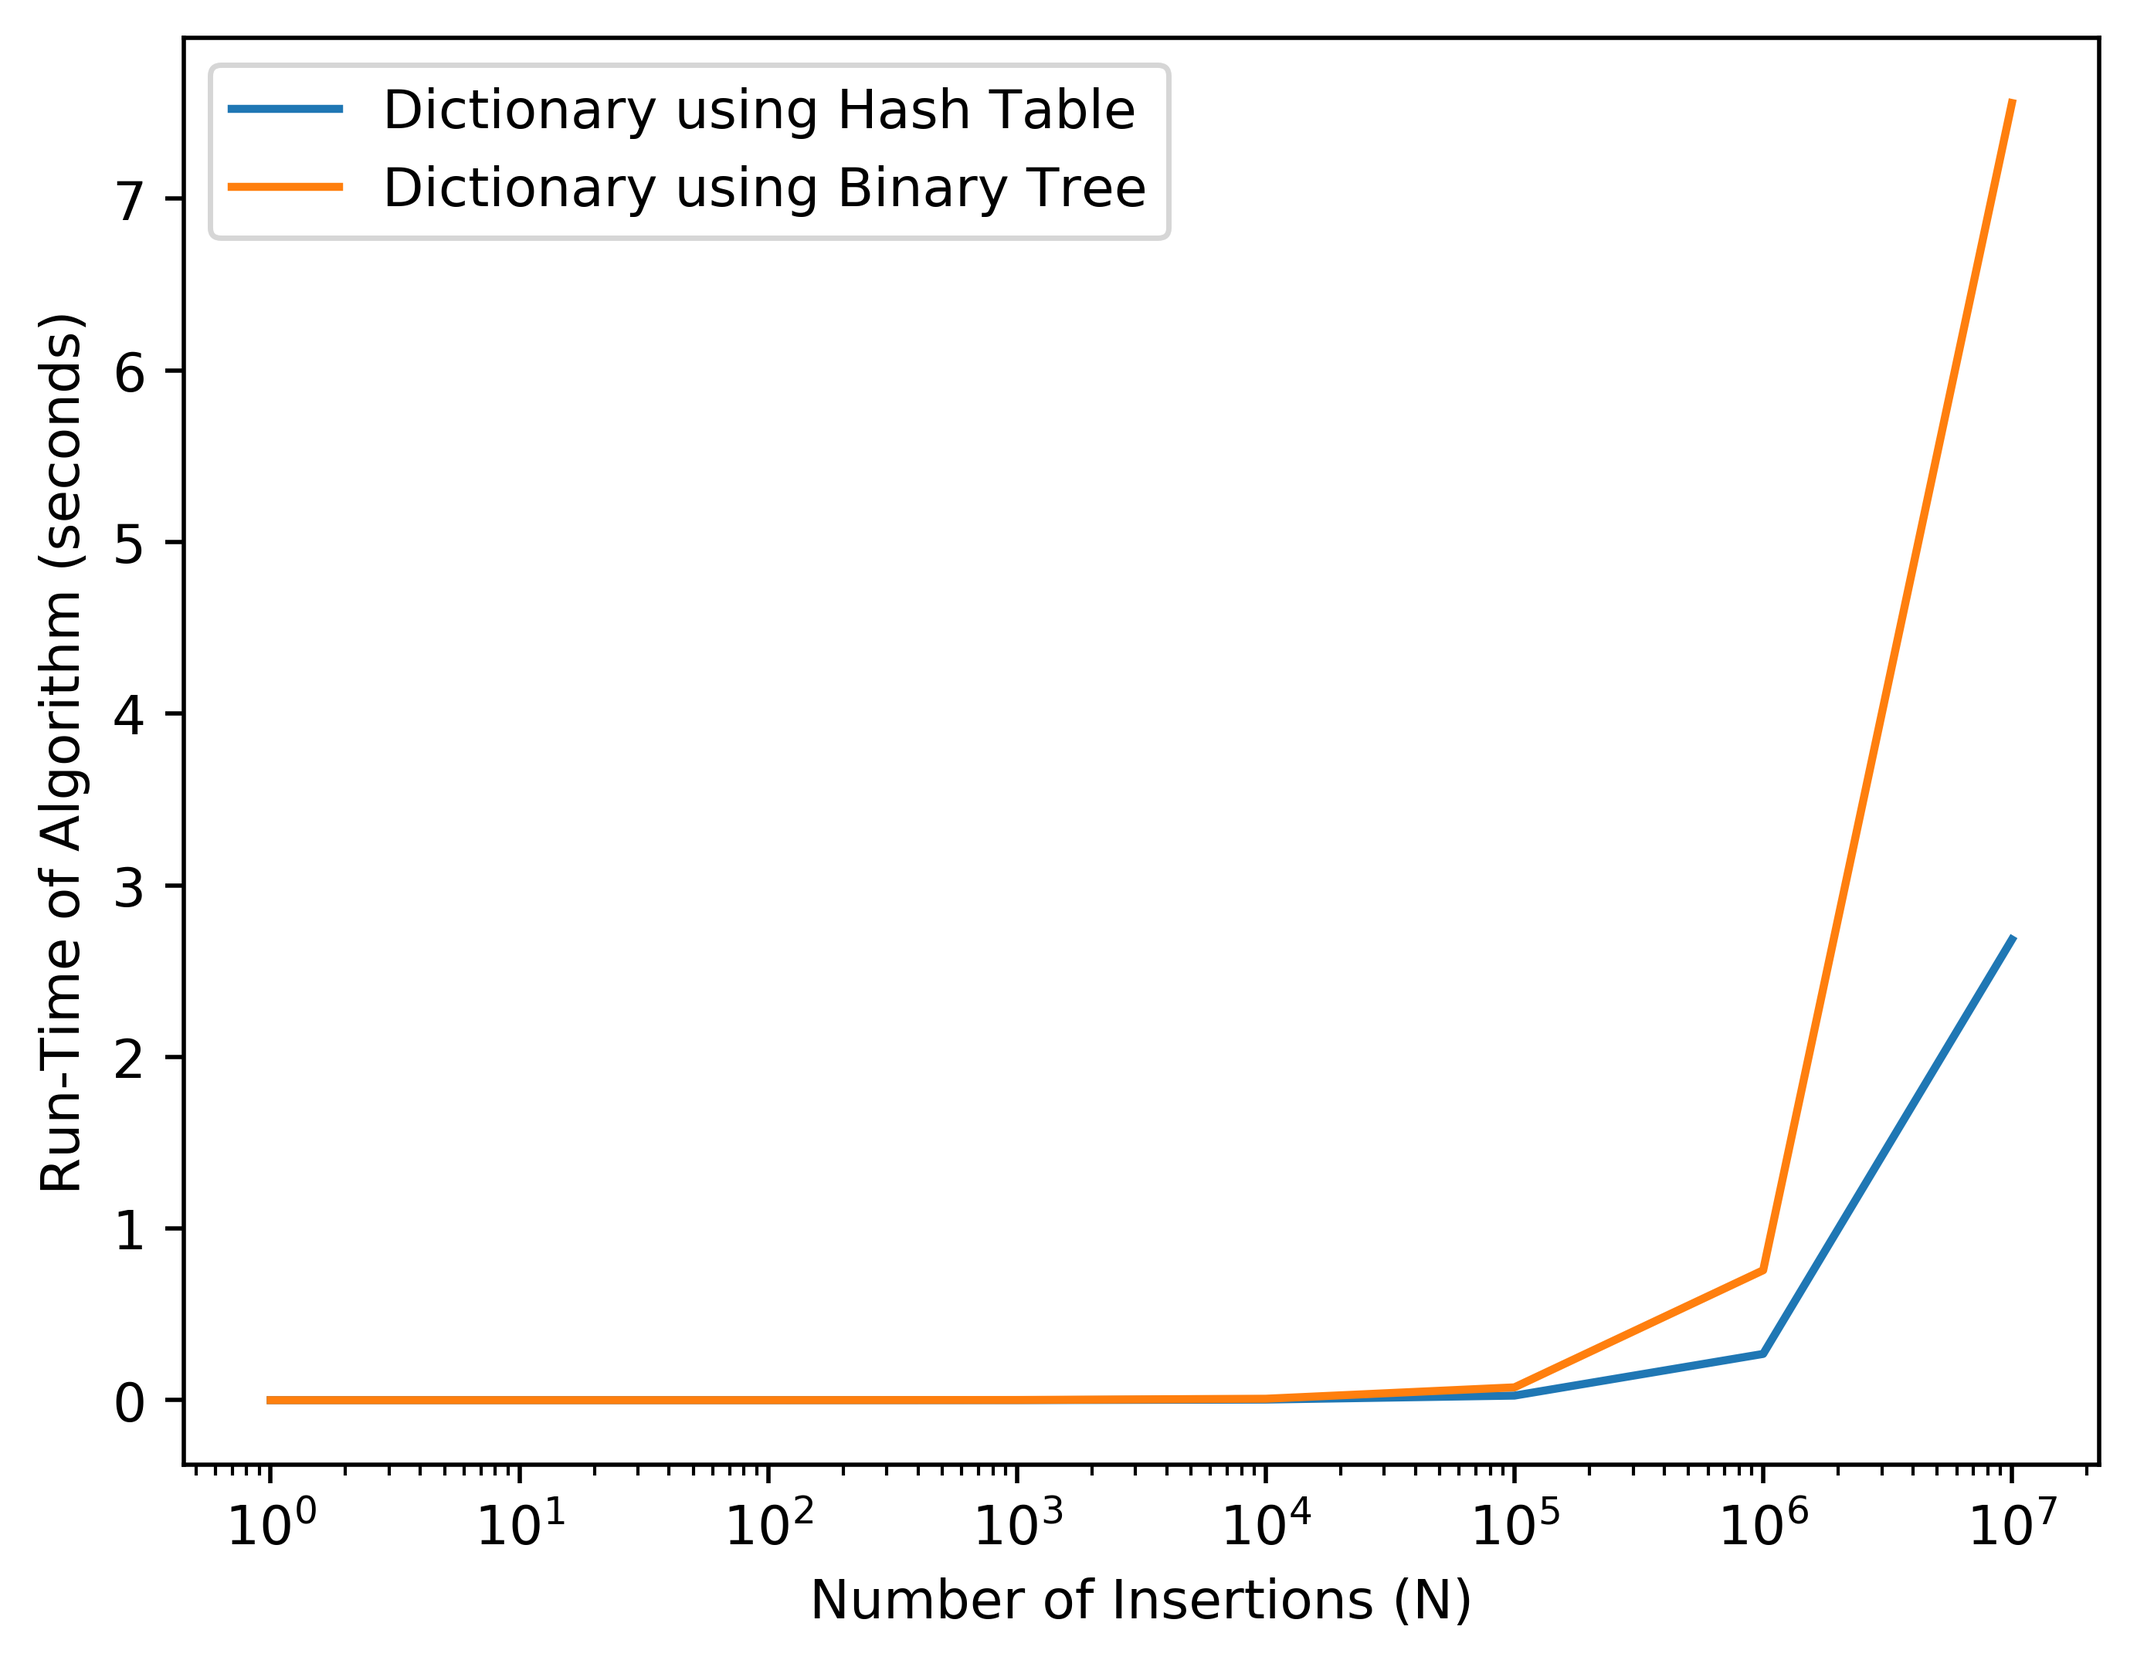
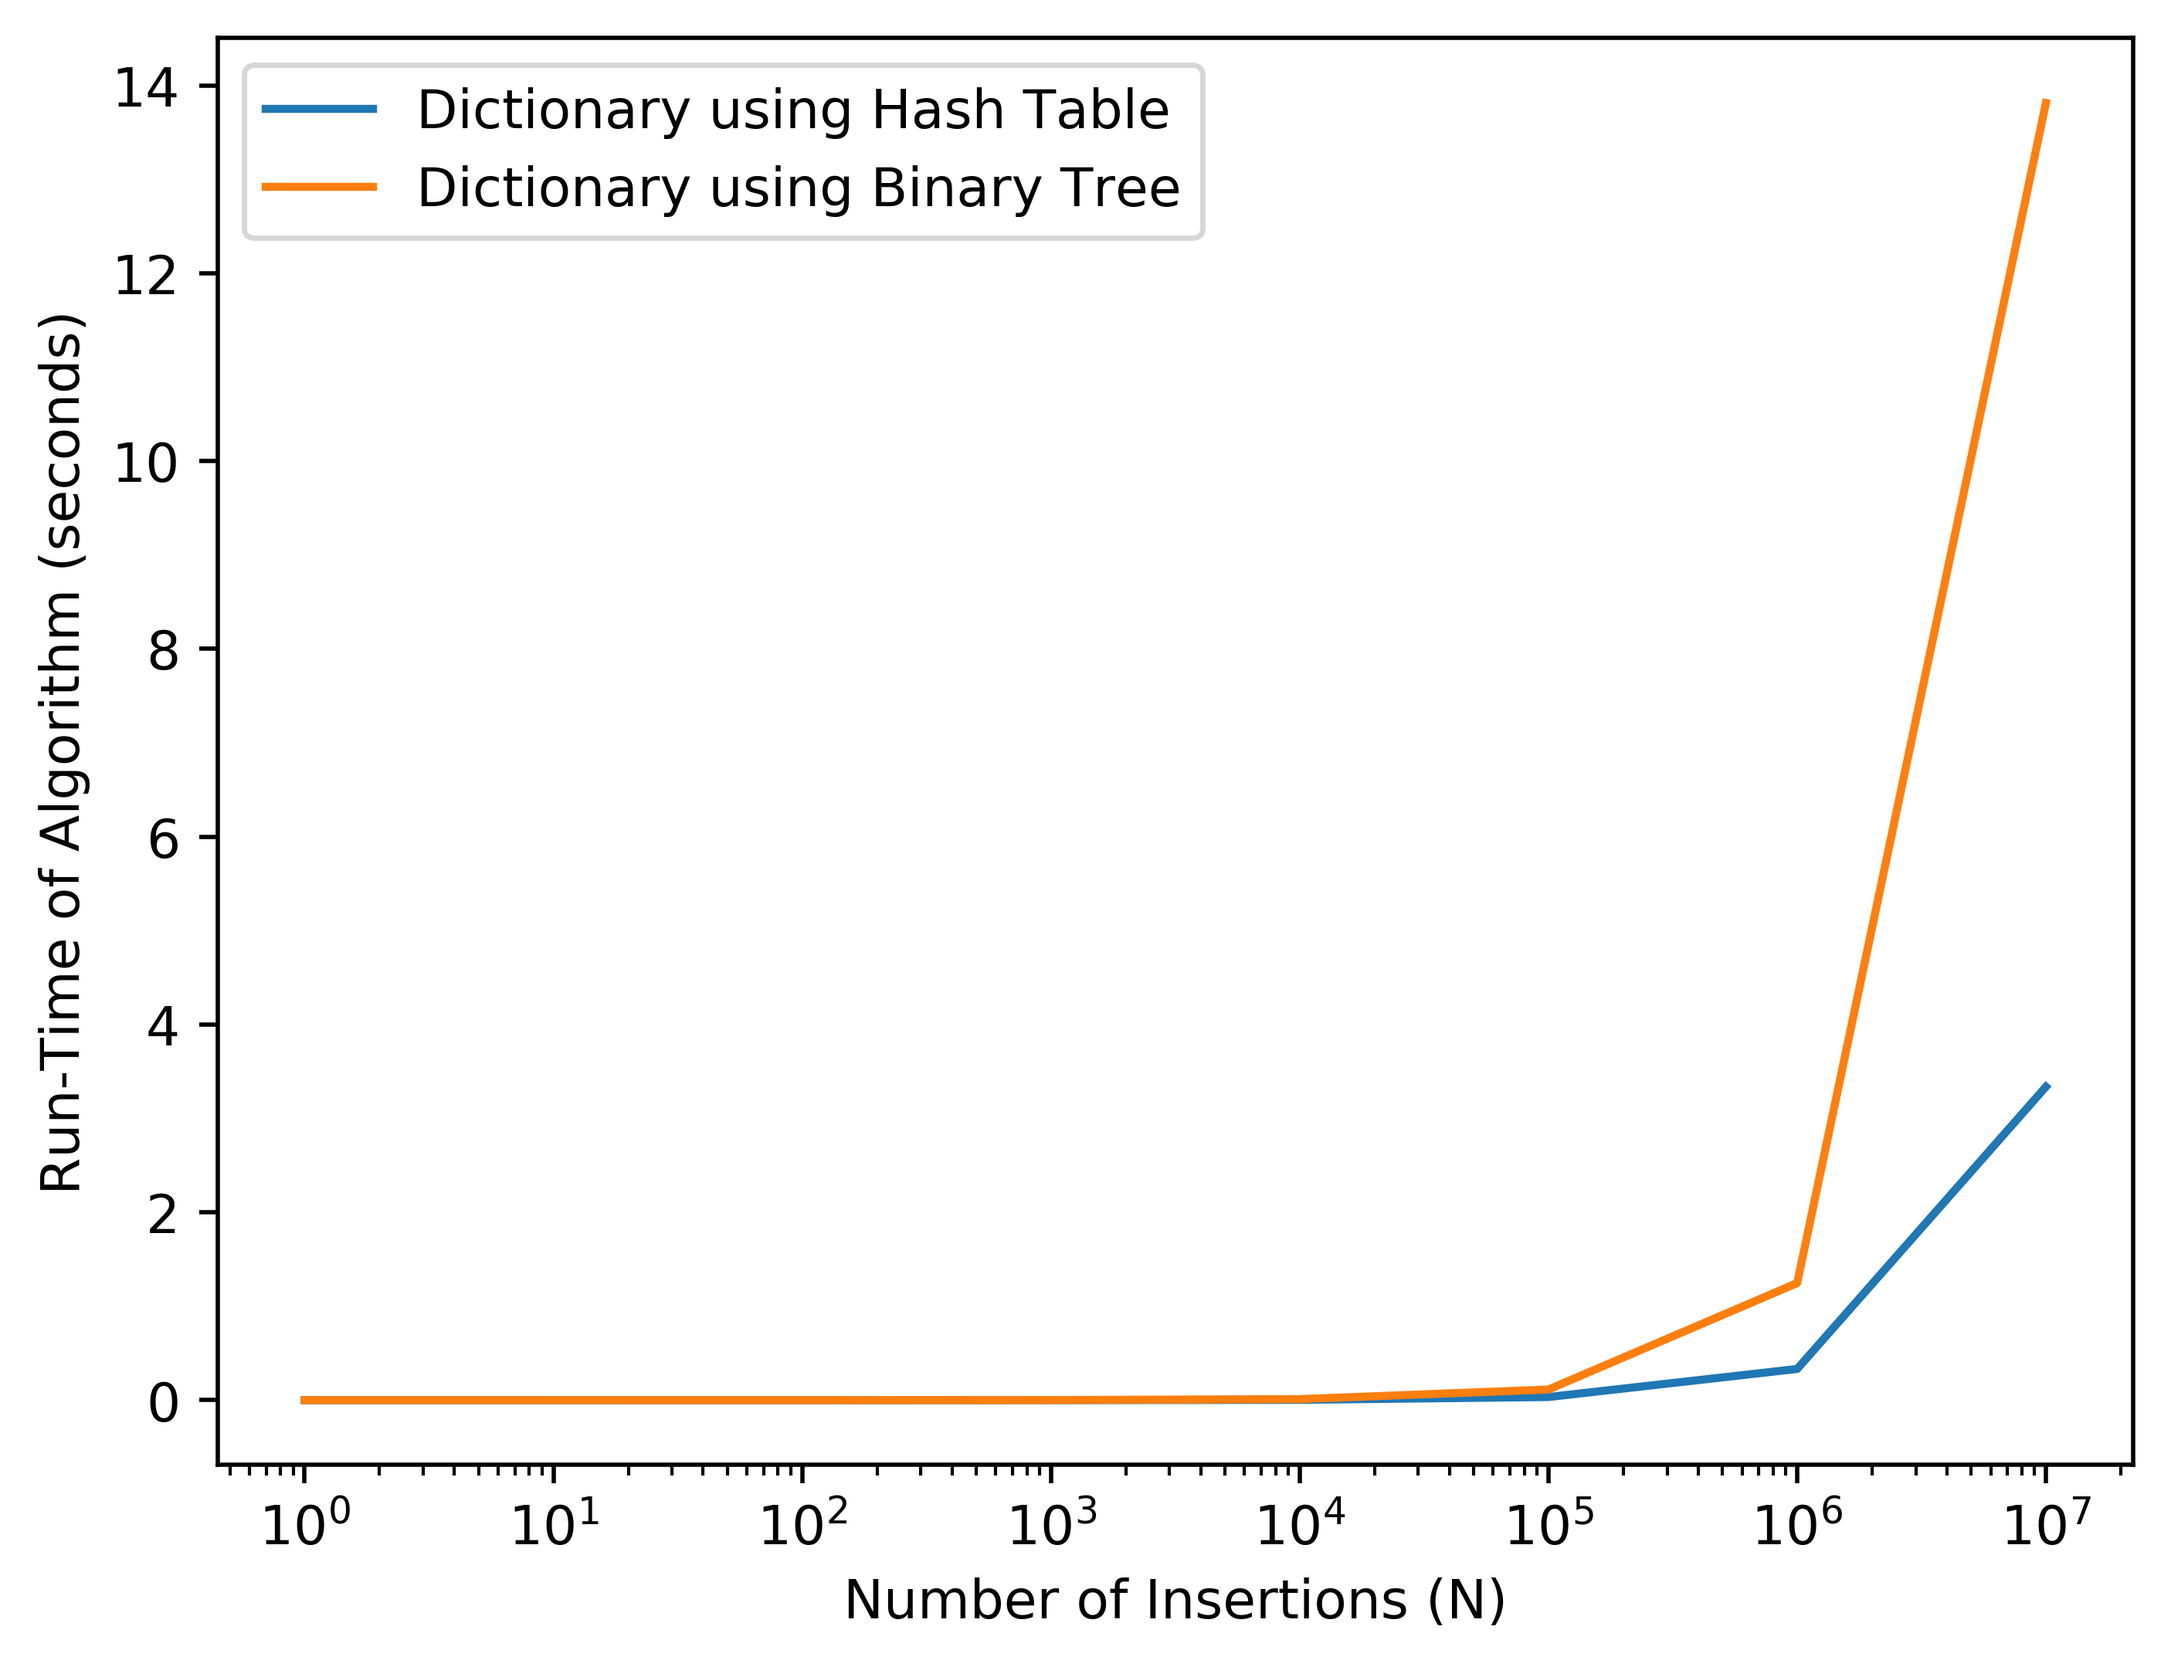
update Q3

diff --git a/HW4/Q3/Q3.py b/HW4/Q3/Q3.py
@@ -18,12 +18,12 @@ num_insertions = 1
 to_break = False
 while (1):
 	dict_insertions.append(num_insertions)
-	ht_value = len(dict_hashtable)
-	bt_value = len(dict_binarytree)
+	dict_hashtable = {}
+	dict_binarytree = OOBTree()
 
 	start = time.monotonic()
 	for i in range(num_insertions):
-		dict_hashtable[ht_value] = str(ht_value)
+		dict_hashtable[i] = str(i)
 	stop = time.monotonic()
 	dict_ht_time.append(stop - start)
 	if (dict_ht_time[-1] > 3):
@@ -31,7 +31,7 @@ while (1):
 
 	start = time.monotonic()
 	for i in range(num_insertions):
-		dict_binarytree.update({ht_value: str(ht_value)})
+		dict_binarytree.update({i: str(i)})
 	stop = time.monotonic()
 	dict_bt_time.append(stop - start)
 	if (to_break or dict_bt_time[-1] > 3):
